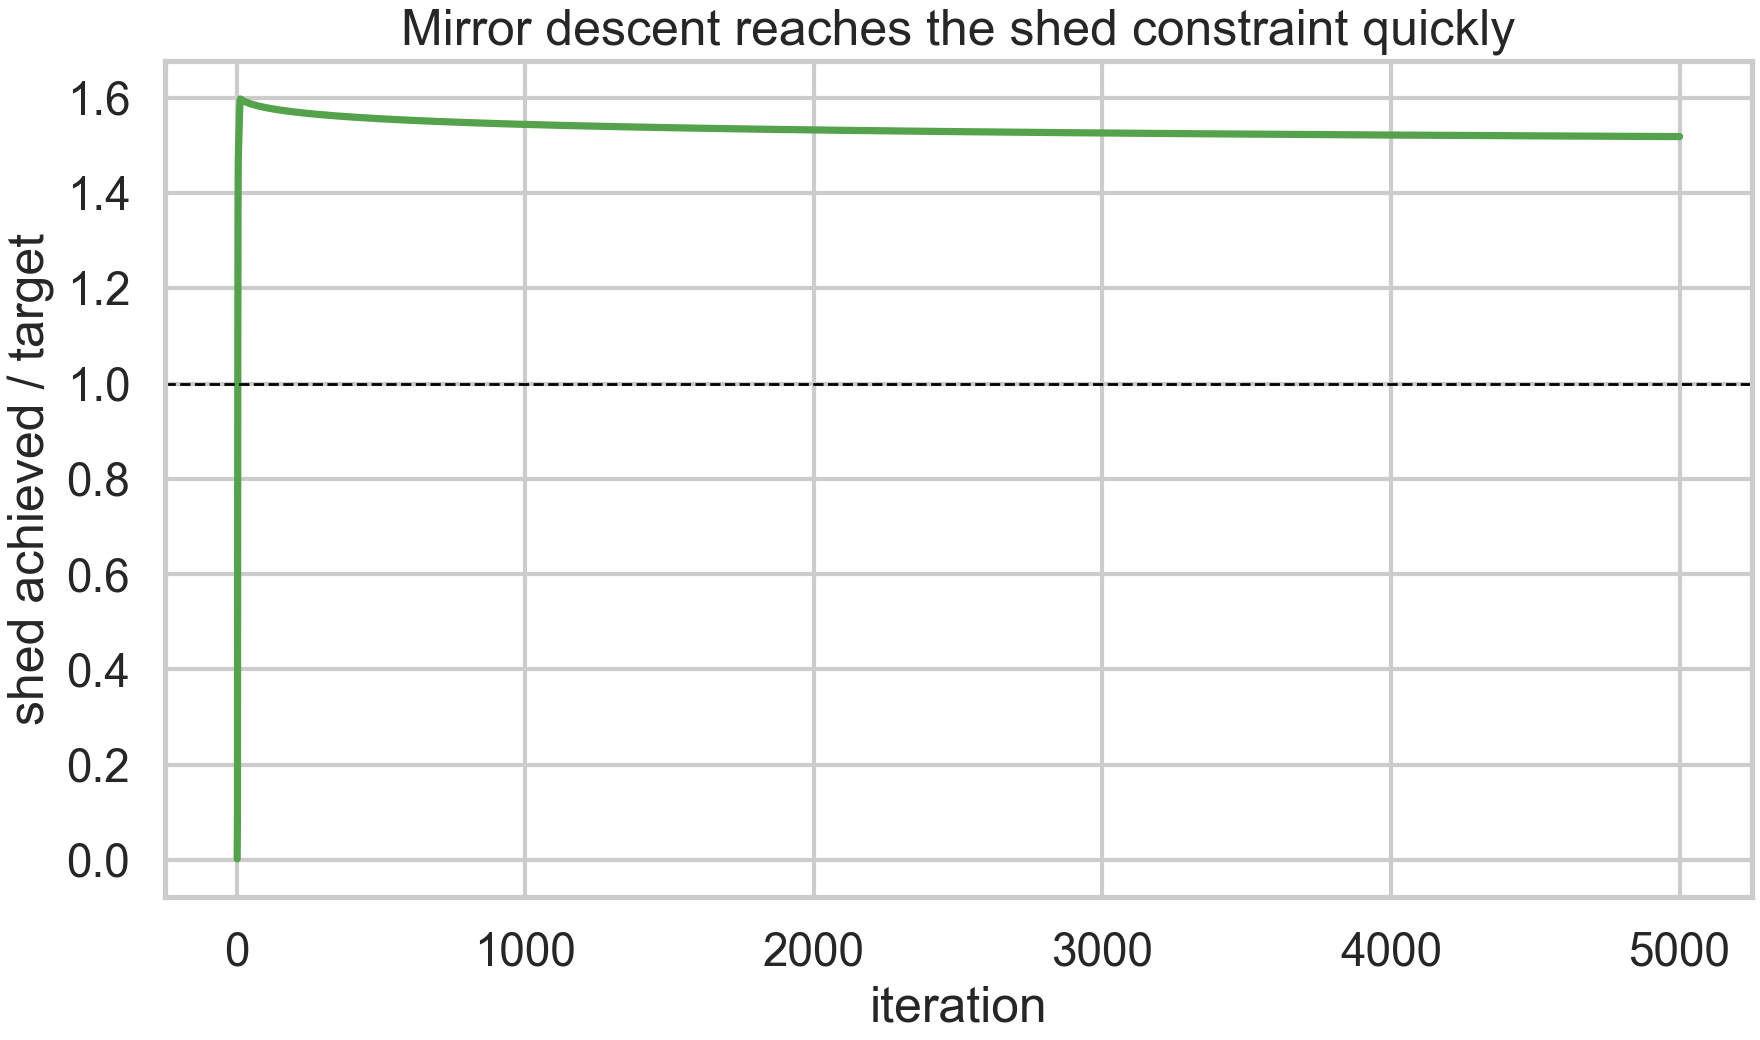
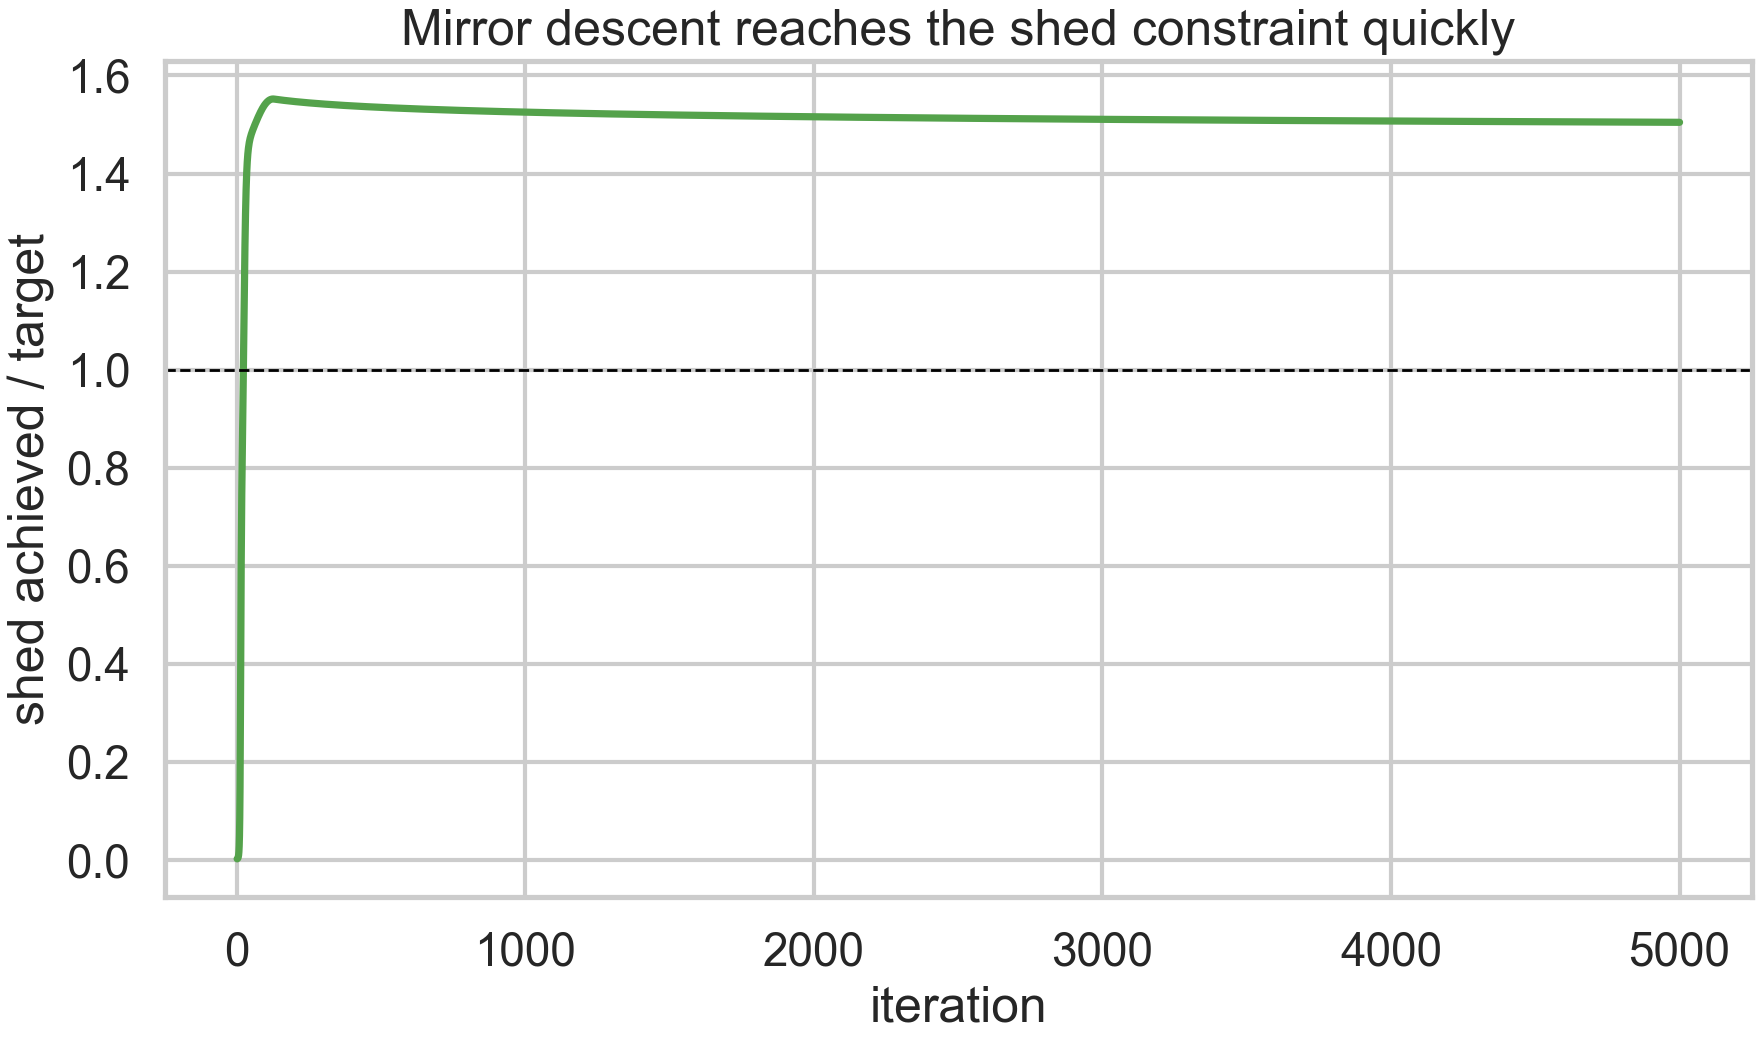
Normalize mirror-descent dual update by B_shed
The dual subgradient step was scaled by absolute violation (B_shed -
shed), which made the effective dual learning rate proportional to
B_shed. For GLM-5 in the prefill-load regime (B_shed = 331 s, both
replay and state oversaturated), dual jumped from 0 -> 66 in one
iteration, the next primal step overshot to shed = 527, and from
iter 3 onward dual collapsed to 0 with shed stuck at ~810. best_obj
was locked at iter 2's transient (11.03 vs CVXPY 6.26).

Dividing the dual update by B_shed makes the algorithm scale-
invariant. Gaps across all 9 model x regime cells now sit at 0.0-4%.

Changed region(s): [[0.0312, 0.0615, 1.0, 0.8]]

diff --git a/agent-migrate/convex-allocation/src/mirror_descent.py b/agent-migrate/convex-allocation/src/mirror_descent.py
@@ -67,7 +67,7 @@ def solve_mirror_descent(
         y = y_new
         shed = shed_achieved(problem, y)
         violation = max(0.0, problem.B_shed - shed)
-        dual = max(0.0, dual + eta_l0 / np.sqrt(t) * (problem.B_shed - shed))
+        dual = max(0.0, dual + eta_l0 / np.sqrt(t) * (problem.B_shed - shed) / problem.B_shed)
         obj = objective(problem, coeffs, y)
         if violation <= 1e-3 and obj < best_obj:
             best_obj = obj
